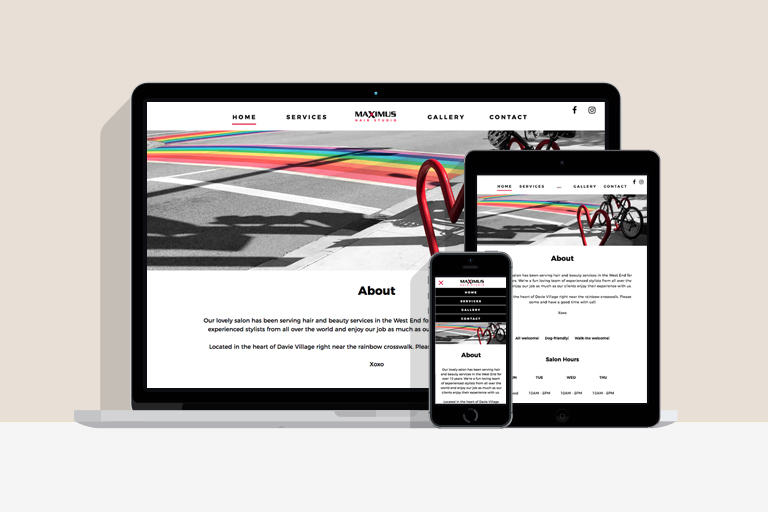
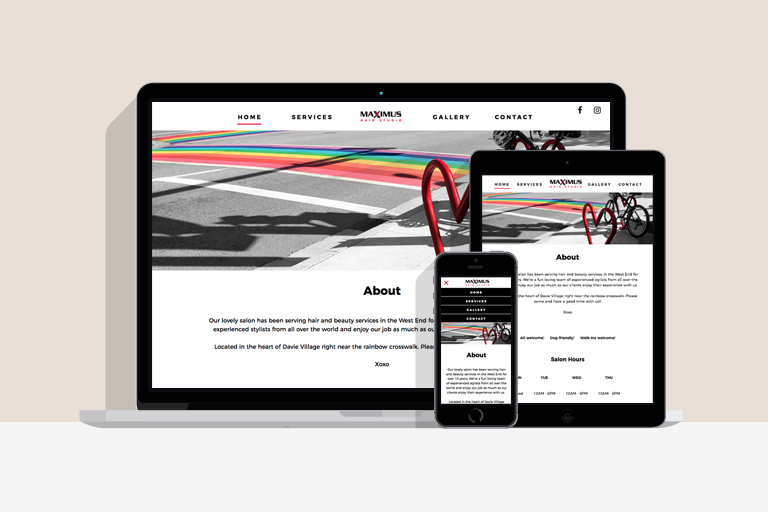
mh header images

diff --git a/styles/style.css b/styles/style.css
@@ -359,10 +359,11 @@ article {
 	background-size: contain;
 }
 
+.mh .hero {
+	background-image: url("../images/maximus-hair/mh-header-mobile.jpg");
+}
+
 .ap .hero {
-	background-repeat: no-repeat;
-	background-attachment: fixed;
-	background-size: contain;
 	background-image: url("../images/andrews-portfolio/ap-header-mobile-2.jpg");
 }
 
@@ -527,6 +528,10 @@ footer .social {
 	.hamburger {
 		top: 20px;
 		left: 20px;
+	}
+
+	.mh .hero {
+		background-image: url("../images/maximus-hair/mh-header-desktop.jpg");
 	}
 
 	.ap .hero {

diff --git a/personal-portfolio.php b/personal-portfolio.php
@@ -1,0 +1,138 @@
+<?php 
+	$pageTitle = "Personal Portfolio | Christel Chan's Portfolio";
+	$pageClass = 'single pp';
+	include ('templates/header.php');
+?>
+
+<main>
+
+<div class="hero"></div>
+
+<section class="project-blurb">
+	<h1 class="project-title">Personal Portfolio</h1>
+	<div class="tools"></div>
+	<p>A portfolio website to showcase my web development and design projects. My vision was to create a clean, user-friendly website while still integrating subtle, unique elements, such as the logo animation, hand-drawn patterns, and hover effects . I also used this opportunity to develop a mobile-first experience, experiment with Bootstrap for layout,  as well as continue practicing Github for version control. </p>
+	<a class="button" href="">View Live</a>
+
+</section>
+
+<section class="process">
+	<h2>Process</h2>
+
+	<article>
+		<h3>Ideation</h3>
+		<p>My initial sketches and brainstorms were aiming to showcase as much of my artistic background as possible, with ideas of fancy animated artwork and bold colours. After looking through examples of successful portfolio websites from past students, I realized usability and content were most important.  I scratched ambitious ideas in favour of a clean, well-designed and developed website that functioned well and most importantly, highlighted the actual work in my portfolio.</p> 
+	</article>
+
+	<article>
+		<h3>Design</h3>
+		<p>With the focus on showcasing the work, I designed a clean and simple wireframe.</p>
+
+		<div class="image wireframe">
+			<img src="images/andrews-portfolio/ap-wireframe.png" alt="Andrew's Portfolio Wireframe">
+		</div>
+
+ 		<p>He was open to design choices as long as they conveyed a “friendly but professional” vibe. We agreed that the first style tile had a more cohesive colour palette and font choice, so I designed mockups based on it.</p>
+
+		<div class="image mockup">
+			<img src="images/andrews-portfolio/ap-styletile-1.jpg" alt="Andrew's Portfolio Style Tile">
+		</div>
+
+		<div class="image mockup">
+			<img src="images/andrews-portfolio/ap-styletile-2.png" alt="Andrew's Portfolio Style Tile">
+		</div>
+
+	</article>
+
+	<article>
+	<h3>Development</h3>
+
+		<p>The most challenging code to write was for the animations that the client requested:</p>
+
+		<ol>
+			<li>On mobile, the client wanted the hero image to shrink and the circular profile picture to minimize into a sticky header when the user scrolls.</li>
+			<li>On desktop, the client wanted the circular profile picture to float into the side bar when the user scrolls past the hero image.</li>
+		</ol>
+
+		<pre>
+			<code class="language-javascript">
+	// --------JAVASCRIPT/JQUERY CODE----------
+
+	// Header scroll event handler
+
+	const $window = $(window);
+
+	$window.scroll(function(){
+
+		const windowWidth = $window.width();
+
+		if(windowWidth >= 1024){
+
+			desktopScroll();
+
+		}else{
+
+			mobileScroll();
+		}
+	});
+
+
+	// Scroll helper functions
+
+	const $header = $('header');
+	const $title = $('.title');
+	const $profilePic = $('.profile-pic');
+	const $main = $('main');
+
+	// Desktop scroll function
+
+	function desktopScroll(){
+
+		const pos = $window.scrollTop();
+		const $stickyTitle = $('.sticky-title');
+
+		$header.css({"header": 400 - pos});
+
+		if(pos > 170){
+			$profilePic.addClass('sticky-pic');
+			$title.hide()
+				  .addClass('sticky-title');
+			$stickyTitle.show();
+			$header.fadeOut();
+			$main.addClass('main-side');
+		}
+	}
+
+	// Mobile scroll function
+
+	function mobileScroll(){
+
+		const headerHeight = $('header').height();
+		const pos = $window.scrollTop();
+
+		if(pos > headerHeight){
+			$profilePic.addClass('sticky-pic');
+			$title.addClass('sticky-title');
+		}else{
+			$profilePic.removeClass('sticky-pic');
+			$title.removeClass('sticky-title');
+		}
+	}
+			</code>
+		</pre>
+	</article>
+</section>	
+
+<section class="final">
+	<h2>Final Website</h2>
+	<img src="images/andrews-portfolio/ap-mobile-screenshot2.png" alt="Andrew's Portfolio Mobile" class="mobile">
+	<img src="images/andrews-portfolio/ap-tablet-screenshot.png" alt="Andrew's Portfolio Tablet" class="tablet">
+	<img src="images/andrews-portfolio/ap-desktop-screenshot.png" alt="Andrew's Portfolio Desktop" class="desktop">
+	<a class="button" href="christelchan.com/andrews-portfolio">View Live</a>
+</section>
+		
+</main>
+
+<?php 
+	include ('templates/footer.php');
+?>

diff --git a/maximus-hair.php b/maximus-hair.php
@@ -1,0 +1,138 @@
+<?php 
+	$pageTitle = "Maximus Hair Studio Website | Christel Chan's Portfolio";
+	$pageClass = 'single mh';
+	include ('templates/header.php');
+?>
+
+<main>
+
+<div class="hero"></div>
+
+<section class="project-blurb">
+	<h1 class="project-title">Maximus Hair Studio</h1>
+	<div class="tools"></div>
+	<p>A one-page portfolio website for a local electrical engineer to display his achievements. The scope of this project was to practice developing responsive designs using several techniques we learnt in our BCIT program, such as media queries, picture elements, and more. I developed complex custom animation based on the client’s request, and optimized them for different device sizes using conditional jQuery.</p>
+	<a class="button" href="">View Live</a>
+
+</section>
+
+<section class="process">
+	<h2>Process</h2>
+
+	<article>
+		<h3>Ideation</h3>
+		<p>I chose to create a website for someone else to gain as much experience as possible working with a client and to practice creating a website that conveyed the right message. A personal portfolio site was simple enough in functionality but still had room for creativity.</p> 
+	</article>
+
+	<article>
+		<h3>Design</h3>
+		<p>The client had a very clear vision of the various animations he wanted on his website, so my wireframes served to plan out the structure of the website as affected by the animations.</p>
+
+		<div class="image wireframe">
+			<img src="images/andrews-portfolio/ap-wireframe.png" alt="Andrew's Portfolio Wireframe">
+		</div>
+
+ 		<p>He was open to design choices as long as they conveyed a “friendly but professional” vibe. We agreed that the first style tile had a more cohesive colour palette and font choice, so I designed mockups based on it.</p>
+
+		<div class="image mockup">
+			<img src="images/andrews-portfolio/ap-styletile-1.jpg" alt="Andrew's Portfolio Style Tile">
+		</div>
+
+		<div class="image mockup">
+			<img src="images/andrews-portfolio/ap-styletile-2.png" alt="Andrew's Portfolio Style Tile">
+		</div>
+
+	</article>
+
+	<article>
+	<h3>Development</h3>
+
+		<p>The most challenging code to write was for the animations that the client requested:</p>
+
+		<ol>
+			<li>On mobile, the client wanted the hero image to shrink and the circular profile picture to minimize into a sticky header when the user scrolls.</li>
+			<li>On desktop, the client wanted the circular profile picture to float into the side bar when the user scrolls past the hero image.</li>
+		</ol>
+
+		<pre>
+			<code class="language-javascript">
+	// --------JAVASCRIPT/JQUERY CODE----------
+
+	// Header scroll event handler
+
+	const $window = $(window);
+
+	$window.scroll(function(){
+
+		const windowWidth = $window.width();
+
+		if(windowWidth >= 1024){
+
+			desktopScroll();
+
+		}else{
+
+			mobileScroll();
+		}
+	});
+
+
+	// Scroll helper functions
+
+	const $header = $('header');
+	const $title = $('.title');
+	const $profilePic = $('.profile-pic');
+	const $main = $('main');
+
+	// Desktop scroll function
+
+	function desktopScroll(){
+
+		const pos = $window.scrollTop();
+		const $stickyTitle = $('.sticky-title');
+
+		$header.css({"header": 400 - pos});
+
+		if(pos > 170){
+			$profilePic.addClass('sticky-pic');
+			$title.hide()
+				  .addClass('sticky-title');
+			$stickyTitle.show();
+			$header.fadeOut();
+			$main.addClass('main-side');
+		}
+	}
+
+	// Mobile scroll function
+
+	function mobileScroll(){
+
+		const headerHeight = $('header').height();
+		const pos = $window.scrollTop();
+
+		if(pos > headerHeight){
+			$profilePic.addClass('sticky-pic');
+			$title.addClass('sticky-title');
+		}else{
+			$profilePic.removeClass('sticky-pic');
+			$title.removeClass('sticky-title');
+		}
+	}
+			</code>
+		</pre>
+	</article>
+</section>	
+
+<section class="final">
+	<h2>Final Website</h2>
+	<img src="images/andrews-portfolio/ap-mobile-screenshot2.png" alt="Andrew's Portfolio Mobile" class="mobile">
+	<img src="images/andrews-portfolio/ap-tablet-screenshot.png" alt="Andrew's Portfolio Tablet" class="tablet">
+	<img src="images/andrews-portfolio/ap-desktop-screenshot.png" alt="Andrew's Portfolio Desktop" class="desktop">
+	<a class="button" href="christelchan.com/andrews-portfolio">View Live</a>
+</section>
+		
+</main>
+
+<?php 
+	include ('templates/footer.php');
+?>

diff --git a/index.php b/index.php
@@ -24,13 +24,13 @@
 		<div class="row">
 
 			<div class="col-sm">
-		    	<a href="http://christelchan.com/"><img src="images/maximus/mh-mockup.jpg" alt="Maximus Hair Salon Thumbnail" class="project-thumbnail"></a>
-		    	<a href="#" class="project-caption">Maximus Hair Salon</a>
+		    	<a href="maximus-hair.php"><img src="images/maximus-hair/mh-mockup.jpg" alt="Maximus Hair Salon Thumbnail" class="project-thumbnail"></a>
+		    	<a href="maximus-hair.php" class="project-caption">Maximus Hair Salon</a>
 		    </div>
 
 		    <div class="col-sm">
-		    	<a href="http://christelchan.com/"><img src="images/portfolio/cc-thumbnail.png" alt="My Personal Portfolio Thumbnail" class="project-thumbnail"></a>
-		    	<a href="http://christelchan.com/" class="project-caption">Christel Chan's Portfolio</a>
+		    	<a href="personal-portfolio.php"><img src="images/portfolio/cc-thumbnail.png" alt="My Personal Portfolio Thumbnail" class="project-thumbnail"></a>
+		    	<a href="personal-portfolio.php" class="project-caption">Christel Chan's Portfolio</a>
 		    </div>
 
 		    <div class="col-sm">
